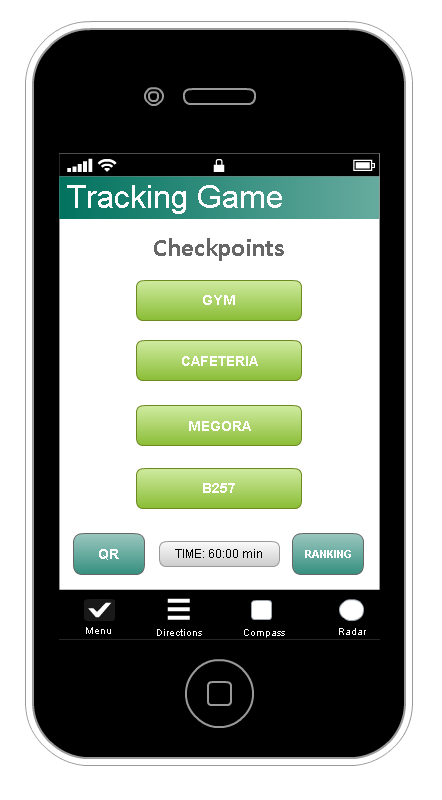
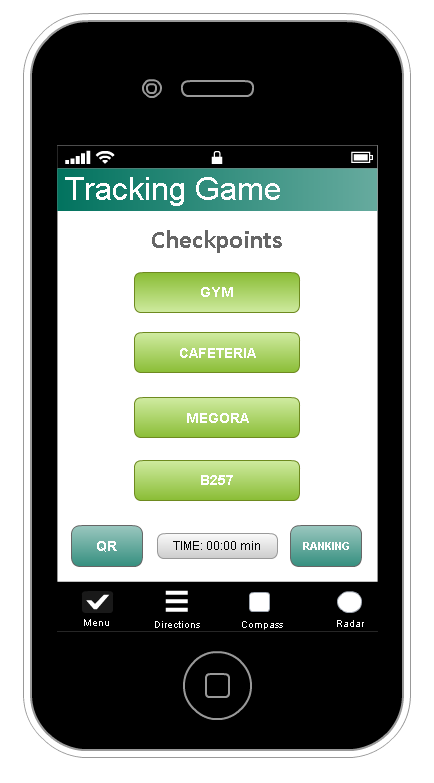
adfadsf

diff --git a/FinalReport.md b/FinalReport.md
@@ -237,8 +237,14 @@ Alejandro's space
 # 6. User Interface
 
 ![Menu](Menu.PNG)
+	Menu Screen when the game starts
 ![Menu2](Menu2.PNG)
+	Menu Screen after 4 minutes 
+	
 ![Directions](Directions.PNG)
+	Directions Screen
 ![Compass](Compass.PNG)
+	Compass Screen
 ![Radar](Capture.PNG)
+	Radar Screen
 
